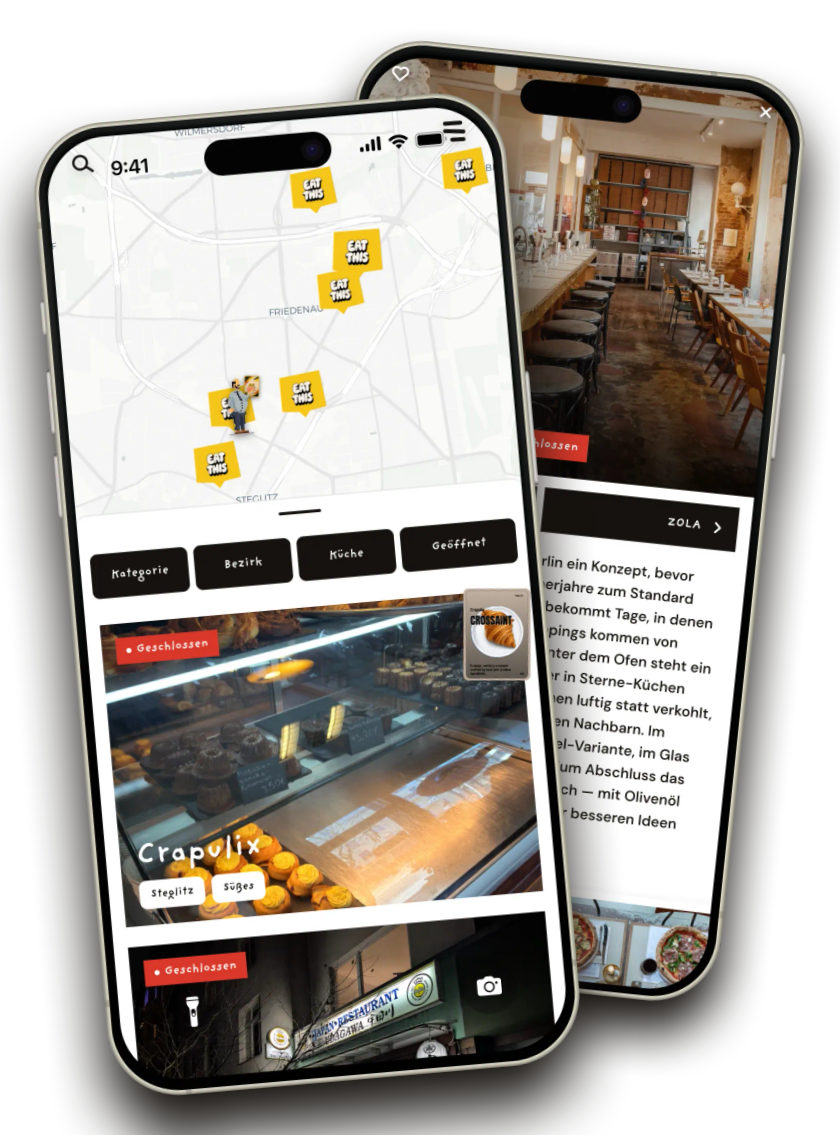
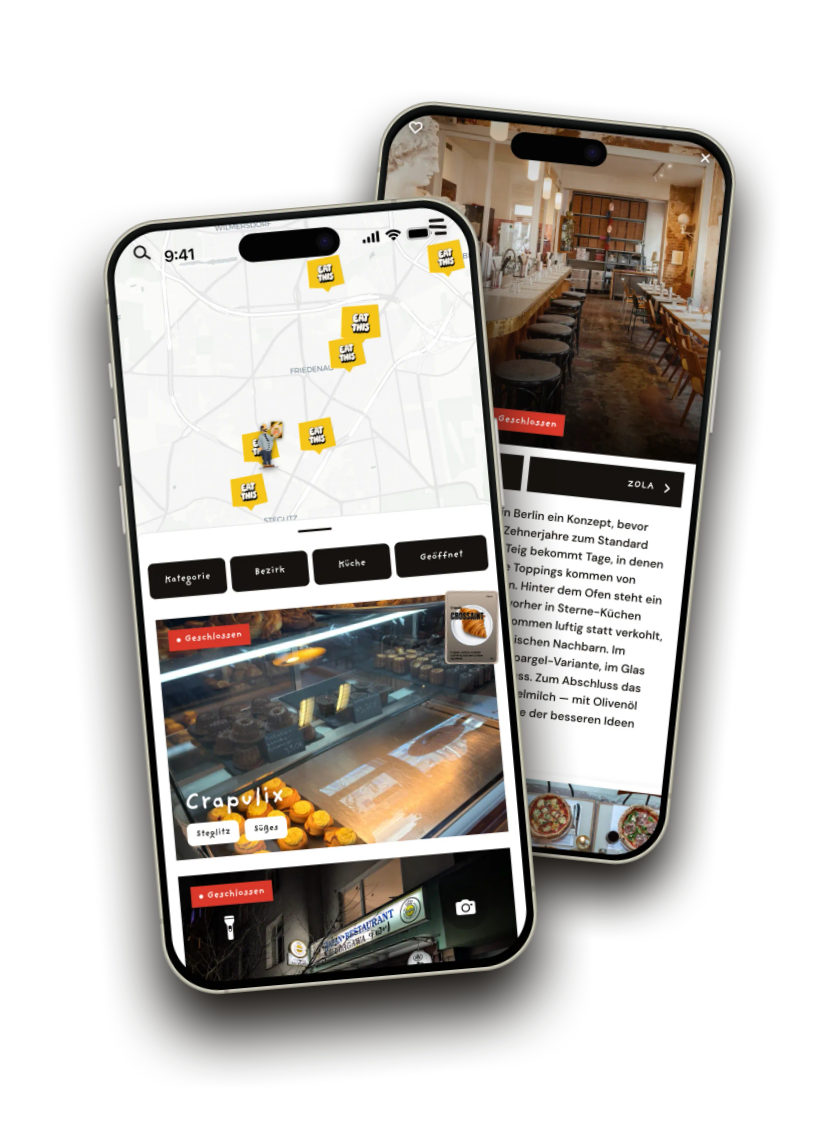
Schatten brauchen Platz, Bild-URLs brauchen eine Version
Zwei Befunde aus dem zweiten Testversand.

1) Der Schlagschatten war unten, links und rechts an der Leinwandkante
   abgeschnitten. Der Rand um die Telefone war eine feste Geschmacksgroesse
   (3 %), obwohl er eine Rechengroesse ist: eine Gauss-Weichzeichnung braucht
   3 Sigma zum Auslaufen, dazu den Versatz nach unten. Bei blur 32 sind das
   96px zur Seite und 136px nach unten — vorhanden waren 25 bzw. 34.
   Der Rand wird jetzt aus den Schattenwerten berechnet, ein geaenderter Blur
   zieht ihn automatisch mit. Gemessen am dunkelsten Randpixel: vorher unten
   126, links 230, rechts 245 — jetzt ringsum 255.

2) Eine korrigierte Spot-Card kam beim Empfaenger nicht an. Die Datei auf dem
   Server war richtig, aber die URL blieb unveraendert, und Gmails Bild-Proxy
   liefert eine einmal geholte URL dauerhaft aus seinem Cache aus. Neu rendern
   allein erreicht den Empfaenger also nie.

   Jede Bild-URL traegt jetzt ?v=. Generierte Bilder bekommen einen
   Inhalts-Hash ins Manifest (Art, Spots, Telefone), die zwei Handdateien
   (Logo, Starter-Pack) die hochzaehlbare EMAIL_ASSET_VERSION. Ein Test
   prueft, dass keine Bild-URL ohne Version rausgeht.

   Dasselbe haette schon beim Wechsel von Schoolbell auf die echte
   Markenschrift zugeschlagen: aeltere Mails haetten den Platzhalter behalten.

diff --git a/nextjs/emails/SignupEmail.tsx b/nextjs/emails/SignupEmail.tsx
@@ -23,7 +23,7 @@ import {
   SPOT_DISPLAY_WIDTH,
   type EmailSpot,
 } from './spots.generated';
-import { COLOR, LAYOUT } from './theme';
+import { COLOR, LAYOUT, EMAIL_ASSET_VERSION } from './theme';
 
 export type { EmailSpot };
 
@@ -93,7 +93,7 @@ export default function SignupEmail({ magicLink, appUrl, spots: override }: Sign
           (npm run build:email-phones), Kippung und Schatten eingebacken. */}
       <Section style={{ backgroundColor: COLOR.paper, padding: '0 0 8px', textAlign: 'center' }}>
         <img
-          src={`${appUrl}/pics/email/${PHONES_ART.id}.jpg`}
+          src={`${appUrl}/pics/email/${PHONES_ART.id}.jpg?v=${PHONES_ART.version}`}
           alt={PHONES_ART.alt}
           width={PHONES_ART.width}
           style={{
@@ -126,6 +126,7 @@ export default function SignupEmail({ magicLink, appUrl, spots: override }: Sign
               width: 168,
               height: 260,
               alt: 'Eat This Starter Pack — 20 Must Eats',
+              version: EMAIL_ASSET_VERSION,
             }}
             appUrl={appUrl}
             altStyle={{ color: COLOR.ink, fontSize: '14px', fontWeight: 700 }}
@@ -195,7 +196,7 @@ export default function SignupEmail({ magicLink, appUrl, spots: override }: Sign
                   process as an HTML string, and there is no runtime to optimise. */}
               {/* eslint-disable-next-line @next/next/no-img-element */}
               <img
-                src={`${appUrl}/pics/email/spots/${s.slug}.jpg`}
+                src={`${appUrl}/pics/email/spots/${s.slug}.jpg?v=${s.version}`}
                 alt={`${s.name} — ${s.meta}`}
                 width={SPOT_DISPLAY_WIDTH}
                 height={SPOT_DISPLAY_HEIGHT}

diff --git a/nextjs/emails/art.generated.ts b/nextjs/emails/art.generated.ts
@@ -13,6 +13,8 @@ export interface ArtAsset {
   height: number;
   /** Volle Wortlaut-Fassung für Clients mit blockierten Bildern. */
   alt: string;
+  /** Inhalts-Hash; haengt als ?v= an der URL, sonst cacht Gmail ewig. */
+  version: string;
 }
 
 export const ART = {
@@ -20,42 +22,49 @@ export const ART = {
     "id": "headline-signup",
     "width": 470,
     "height": 114,
-    "alt": "WE TELL YOU WHAT TO EAT"
+    "alt": "WE TELL YOU WHAT TO EAT",
+    "version": "86e76b14"
   },
   "headlineLogin": {
     "id": "headline-login",
     "width": 470,
     "height": 113,
-    "alt": "WILLKOMMEN ZURÜCK"
+    "alt": "WILLKOMMEN ZURÜCK",
+    "version": "6408414f"
   },
   "titleStarterPack": {
     "id": "title-starter-pack",
     "width": 210,
     "height": 23,
-    "alt": "STARTER PACK"
+    "alt": "STARTER PACK",
+    "version": "fd7fe63e"
   },
   "sloganInverse": {
     "id": "slogan-inverse",
     "width": 172,
     "height": 8,
-    "alt": "WE TELL YOU WHAT TO EAT"
+    "alt": "WE TELL YOU WHAT TO EAT",
+    "version": "95f3e500"
   },
   "kickerSignup": {
     "id": "kicker-signup",
     "width": 200,
     "height": 11,
-    "alt": "WAS DU ESSEN SOLLTEST"
+    "alt": "WAS DU ESSEN SOLLTEST",
+    "version": "d912c98f"
   },
   "kickerLogin": {
     "id": "kicker-login",
     "width": 276,
     "height": 15,
-    "alt": "SCHÖN, DASS DU WIEDER DA BIST"
+    "alt": "SCHÖN, DASS DU WIEDER DA BIST",
+    "version": "9edf6795"
   },
   "titleSpots": {
     "id": "title-spots",
     "width": 290,
     "height": 17,
-    "alt": "SCHON MAL REINSCHAUEN"
+    "alt": "SCHON MAL REINSCHAUEN",
+    "version": "03b6c846"
   }
 } as const satisfies Record<string, ArtAsset>;

diff --git a/nextjs/emails/components/Shell.tsx b/nextjs/emails/components/Shell.tsx
@@ -14,7 +14,7 @@ import {
   Text,
 } from '@react-email/components';
 import { ART } from '../art.generated';
-import { BODY_FONT, COLOR, LAYOUT } from '../theme';
+import { BODY_FONT, COLOR, LAYOUT, EMAIL_ASSET_VERSION } from '../theme';
 
 interface ShellProps {
   /** Inbox preview line — the sentence under the subject. */
@@ -87,7 +87,7 @@ export function Shell({ preview, appUrl, children }: ShellProps) {
           <Section style={{ backgroundColor: COLOR.ink, padding: '18px 0', textAlign: 'center' }}>
             <Link href={appUrl}>
               <Img
-                src={`${appUrl}/pics/email/eat-this-logo.png`}
+                src={`${appUrl}/pics/email/eat-this-logo.png?v=${EMAIL_ASSET_VERSION}`}
                 alt="Eat This"
                 width="122"
                 style={{
@@ -113,7 +113,7 @@ export function Shell({ preview, appUrl, children }: ShellProps) {
             style={{ backgroundColor: COLOR.ink, padding: '34px 24px 30px', textAlign: 'center' }}
           >
             <Img
-              src={`${appUrl}/pics/email/eat-this-logo.png`}
+              src={`${appUrl}/pics/email/eat-this-logo.png?v=${EMAIL_ASSET_VERSION}`}
               alt="Eat This"
               width="150"
               style={{
@@ -127,7 +127,7 @@ export function Shell({ preview, appUrl, children }: ShellProps) {
               }}
             />
             <Img
-              src={`${appUrl}/pics/email/${ART.sloganInverse.id}.png`}
+              src={`${appUrl}/pics/email/${ART.sloganInverse.id}.png?v=${ART.sloganInverse.version}`}
               alt={ART.sloganInverse.alt}
               width={ART.sloganInverse.width}
               style={{

diff --git a/nextjs/emails/__tests__/authEmails.test.ts b/nextjs/emails/__tests__/authEmails.test.ts
@@ -4,8 +4,8 @@ import SignupEmail, { SIGNUP_SUBJECT } from '../SignupEmail';
 import LoginEmail, { LOGIN_SUBJECT } from '../LoginEmail';
 
 const spots = [
-  { slug: 'sofi', name: 'SOFI', meta: 'Mitte · Bakery' },
-  { slug: 'gemello', name: 'GEMELLO', meta: 'Prenzlauer Berg · Italian' },
+  { slug: 'sofi', name: 'SOFI', meta: 'Mitte · Bakery', version: 'aaaa1111' },
+  { slug: 'gemello', name: 'GEMELLO', meta: 'Prenzlauer Berg · Italian', version: 'bbbb2222' },
 ];
 
 const magicLink = 'https://x/verify?abc=1';
@@ -141,6 +141,17 @@ describe('SignupEmail', () => {
     // 401 on staging and drag the brand font back onto the server.
     for (const html of [await signup(), await login()]) {
       expect(html).not.toContain('/api/email/');
+    }
+  });
+
+  it('versioniert jede Bild-URL, damit Gmails Proxy nicht ewig die alte Datei ausliefert', async () => {
+    // Ein neu gerendertes Bild unter unveraenderter URL erreicht den Empfaenger
+    // nie — genau so blieb eine korrigierte Spot-Card im Postfach die alte.
+    const html = await signup();
+    for (const src of html.match(/src="[^"]*\/pics\/email\/[^"]*"/g) ?? []) {
+      // Generierte Bilder tragen einen Inhalts-Hash, Handdateien die
+      // hochgezaehlte EMAIL_ASSET_VERSION — beides zaehlt.
+      expect(src).toMatch(/\?v=[0-9a-z]+"/);
     }
   });
 

diff --git a/nextjs/emails/spots.generated.ts b/nextjs/emails/spots.generated.ts
@@ -8,6 +8,8 @@ export interface EmailSpot {
   name: string;
   /** „Bezirk · Küche" für den Alt-Text. */
   meta: string;
+  /** Inhalts-Hash; haengt als ?v= an der Bild-URL, sonst cacht Gmail ewig. */
+  version: string;
 }
 
 /** Anzeigebreite in CSS-Pixeln; die JPEGs sind 1072×804 (2x). */
@@ -18,16 +20,19 @@ export const EMAIL_SPOTS: readonly EmailSpot[] = [
   {
     "slug": "sofi",
     "name": "SOFI",
-    "meta": "Mitte · Bakery"
+    "meta": "Mitte · Bakery",
+    "version": "49c80c79"
   },
   {
     "slug": "gemello",
     "name": "GEMELLO",
-    "meta": "Prenzlauer Berg · Italian"
+    "meta": "Prenzlauer Berg · Italian",
+    "version": "fe38e423"
   },
   {
     "slug": "kitten-deli",
     "name": "Kitten Deli",
-    "meta": "Neukölln · Bakery"
+    "meta": "Neukölln · Bakery",
+    "version": "f045da60"
   }
 ];

diff --git a/nextjs/emails/theme.ts b/nextjs/emails/theme.ts
@@ -45,5 +45,15 @@ export const LAYOUT = {
   radiusControl: 7,
 } as const;
 
+/**
+ * Haengt als ?v= an den Bildern unter public/pics/email, die KEIN Generator
+ * erzeugt (Logo, Starter-Pack-Artwork) und die daher keinen Inhalts-Hash im
+ * Manifest tragen. Bei jeder Aenderung an einer dieser Dateien hochzaehlen.
+ *
+ * Ohne Version liefert Gmails Bild-Proxy eine einmal geholte URL dauerhaft aus
+ * seinem Cache aus — eine ersetzte Datei erreicht den Empfaenger dann nie.
+ */
+export const EMAIL_ASSET_VERSION = '1';
+
 /** The yellow `hv-mk` square that precedes every section title on home. */
 export const MARKER_SIZE = 9;

diff --git a/nextjs/emails/components/Pieces.tsx b/nextjs/emails/components/Pieces.tsx
@@ -105,7 +105,7 @@ export function ArtImage({
 }) {
   return (
     <Img
-      src={`${appUrl}/pics/email/${art.id}.png`}
+      src={`${appUrl}/pics/email/${art.id}.png?v=${art.version}`}
       alt={art.alt}
       width={art.width}
       style={{

diff --git a/nextjs/emails/phones.generated.ts b/nextjs/emails/phones.generated.ts
@@ -5,4 +5,5 @@ export const PHONES_ART = {
   width: 420,
   height: 568,
   alt: 'Die Eat-This-App: die Map mit Must-Eat-Pins und ein Restaurant im Detail',
+  version: '47d45955',
 } as const;
